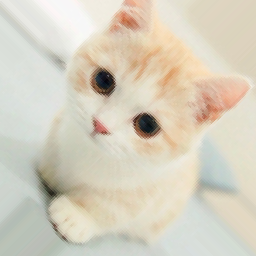
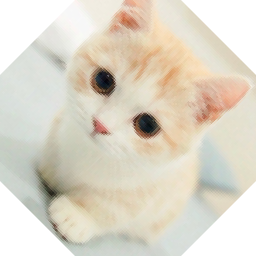
[examples]add clip image's rectangle

diff --git a/examples/main.c b/examples/main.c
@@ -403,6 +403,8 @@ static void test_image(const char * filename)
 	cg_rotate(ctx, 45 * M_PI / 180);
 	cg_scale(ctx, 256.0 / img->width, 256.0 / img->height);
 	cg_translate(ctx, -0.5 * img->width, -0.5 * img->height);
+	cg_rectangle(ctx, 0, 0, img->width, img->height);
+	cg_clip(ctx);
 	cg_set_source_surface(ctx, img, 0, 0);
 	cg_paint(ctx);
 	cg_surface_destroy(img);
